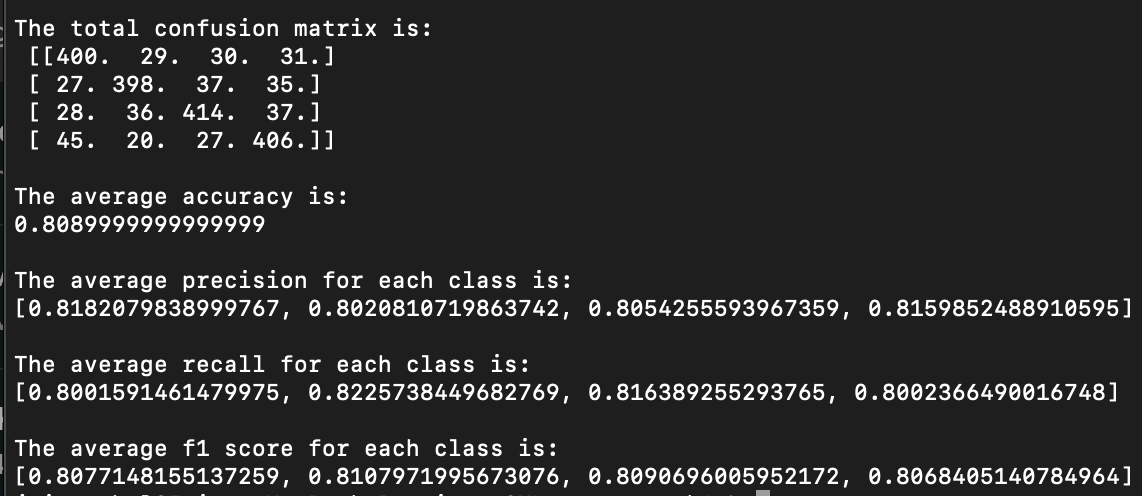
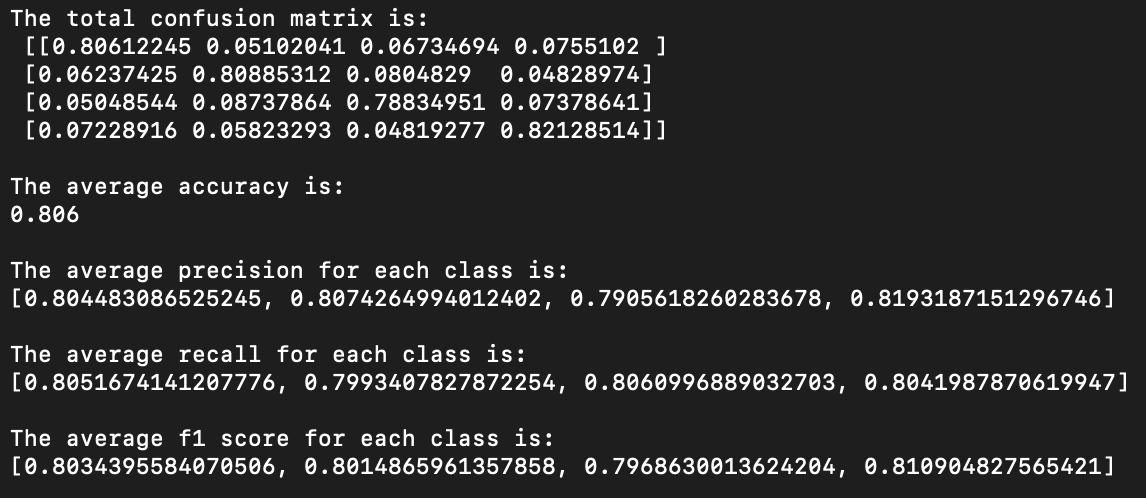
Final changes to code, made user friendly using command line arguments

Changed region(s): [[0.0, 0.5141, 1.0, 1.0], [0.0, 0.0, 0.5823, 0.3024], [0.0, 0.3327, 0.3065, 0.4839]]

diff --git a/main.py b/main.py
@@ -1,10 +1,16 @@
+import sys
 from evaluation.evaluation_metrics import EvaluationMetrics
 from classifier.tree import DecisionTreeClassifier
 from classifier.visualiser import VisualiseTree
 from data_manipulation.load_dataset import load_dataset
 
-def print_results(data = "Clean"):
+def print_results(data, pruning):
     
+    initial_message = {("Clean", True): "Performing nested cross-validation on pruned tree classifier trained on clean data:\n",
+                       ("Clean", False): "Performing cross-validation on tree classifier trained on clean data:\n",
+                       ("Noisy", True): "Performing nested cross-validation on pruned tree classifier trained on noisy data:\n",
+                       ("Noisy", False): "Performing cross-validation on tree classifier trained on noisy data:\n",
+                      }
     #evaluation class
     metrics = EvaluationMetrics()
 
@@ -18,16 +24,44 @@ def print_results(data = "Clean"):
         filepath = 'wifi_db/noisy_dataset.txt'
         x, y = load_dataset(filepath, clean = False)
 
-    #perform cross-validation evaluation pre-pruning
-    metrics.evaluate_CV(x, y, pruning=False)
+    print(initial_message[(data,pruning)])
 
-    #perform cross-validation evaluation post-pruning
-    metrics.evaluate_CV(x, y, pruning=True)
+    if pruning:
+        #perform nested cross-validation for pruned trees
+        metrics.evaluate_CV(x, y, pruning=True)
+    else:
+        #perform cross-validation evaluation without pruning
+        metrics.evaluate_CV(x, y, pruning=False)
 
 
 if __name__ == '__main__':
+
+    clean_argv_list = ["clean", "Clean", "CLEAN", "c", "C"]
+    noisy_argv_list = ["noisy", "Noisy", "NOISY", "n", "N"]
+    pruning_argv_list = ["prune", "pruning", "Prune", "p", "P"]
     
-    command = "v"
+
+    if sys.argv[1] in noisy_argv_list:
+        if len(list(sys.argv)) == 2:
+            print_results(data = "Noisy", pruning = False)
+        elif sys.argv[2] in pruning_argv_list:
+            print_results(data = "Noisy", pruning = True)
+
+    elif sys.argv[1] in clean_argv_list:
+        if len(list(sys.argv)) == 2:
+            print_results(data = "Clean", pruning = False)
+
+        elif sys.argv[2] in pruning_argv_list:
+            print_results(data = "Clean", pruning = True)
+    else:
+        print("Command not understood, examples of acceptable commands are: \n")
+        print("python3 main.py clean -----> perform cross-validation on tree classifier for clean dataset.\n")
+        print("python3 main.py clean prune -----> perform nested cross-validation on pruned tree classifier for clean dataset.\n")
+        print("python3 main.py noisy -----> perform cross-validation on tree classifier for noisy dataset.\n")
+        print("python3 main.py noisy prune -----> perform nested cross-validation on pruned tree classifier for noisy dataset.\n")
+
+
+"""    command = "q"
 
     if command == "v":
         #make initial prediction on test set for clean data
@@ -44,8 +78,4 @@ if __name__ == '__main__':
 
         visualiser.visualise(tree)
 
-    else:
-        print_results(data = "Clean")
-
-        print_results(data = "Noisy")
-
+    else:"""

diff --git a/evaluation/evaluation_metrics.py b/evaluation/evaluation_metrics.py
@@ -105,7 +105,7 @@ class EvaluationMetrics:
     def print_metrics(self, final_average_metrics, pruning):
         """"""
         # print final metrics
-        print(f"\nThe total confusion matrix is: \n {final_average_metrics[0]}")
+        print(f"\nThe total normalised confusion matrix is: \n {final_average_metrics[0]}")
         print(f"\nThe average accuracy is: \n{final_average_metrics[1]}")
         print(f"\nThe average precision for each class is: \n{final_average_metrics[2]}")
         print(f"\nThe average recall for each class is: \n{final_average_metrics[3]}")
@@ -130,8 +130,9 @@ class EvaluationMetrics:
             folds = 10 
             cv.folds = folds
 
+            print("Currently in: \n")
             for i, (train_indices, test_indices) in enumerate(cv.train_test_k_fold(x, y)):
-                print("\nFold ", i)
+                print("Fold #", i)
                 # get the dataset from the correct splits
                 x_train = x[train_indices, :]
                 y_train = y[train_indices]
@@ -170,13 +171,13 @@ class EvaluationMetrics:
             # Outer CV (10-fold)
             outer_folds = 10 
             cv.folds = outer_folds
+            print("Currently in: \n")
             for i, (trainval_indices, test_indices) in enumerate(cv.train_test_k_fold(x, y)):
-                print("\nOUTER FOLD ", i, "\n")
+                print("OUTER FOLD #", i, "\n")
                 x_trainval = x[trainval_indices, :]
                 y_trainval = y[trainval_indices]
                 x_test = x[test_indices, :]
                 y_test = y[test_indices]
-                self.y = y_test
 
                 # Pre-split data for inner cross-validation (9 inner folds)
                 inner_folds = 9
@@ -187,7 +188,7 @@ class EvaluationMetrics:
 
                 # Inner CV (10-fold again)  
                 for j, (train_indices, val_indices) in enumerate(splits):
-                    print("inner fold ", j)
+                    print("Inner Fold #", j)
                     #retrieve training and validation sets from random indices (splits)
                     x_train = x_trainval[train_indices, :]
                     y_train = y_trainval[train_indices]
@@ -204,8 +205,9 @@ class EvaluationMetrics:
                     max_depth_before, max_depth_after, post_pruned = tree_prune.prune_tree()
 
                     self.y_predicted = tree_prune.predict_tree(x_test, post_pruned) #evaluate pruned tree on test set
+                    self.y = y_test
                     
-                    #evaluation metrics for each inner fold
+                    #evaluation metrics for each inner fold 
                     confusion_mat = self.get_confusion_matrix() 
                     accuracy = self.get_accuracy()
                     precision, recall, f1_score = zip(*self.get_precision_recall_f1())

diff --git a/evaluation/prune.py b/evaluation/prune.py
@@ -63,7 +63,7 @@ class TreePruning:
         predicted_values = []
         for sample in X:
             node = tree
-            while not node.is_leaf:
+            while not node.is_leaf and node.left_daughter is not None and node.right_daughter is not None:
                 if sample[node.feature_num] < node.split_val:
                     node = node.left_daughter
                 else:
